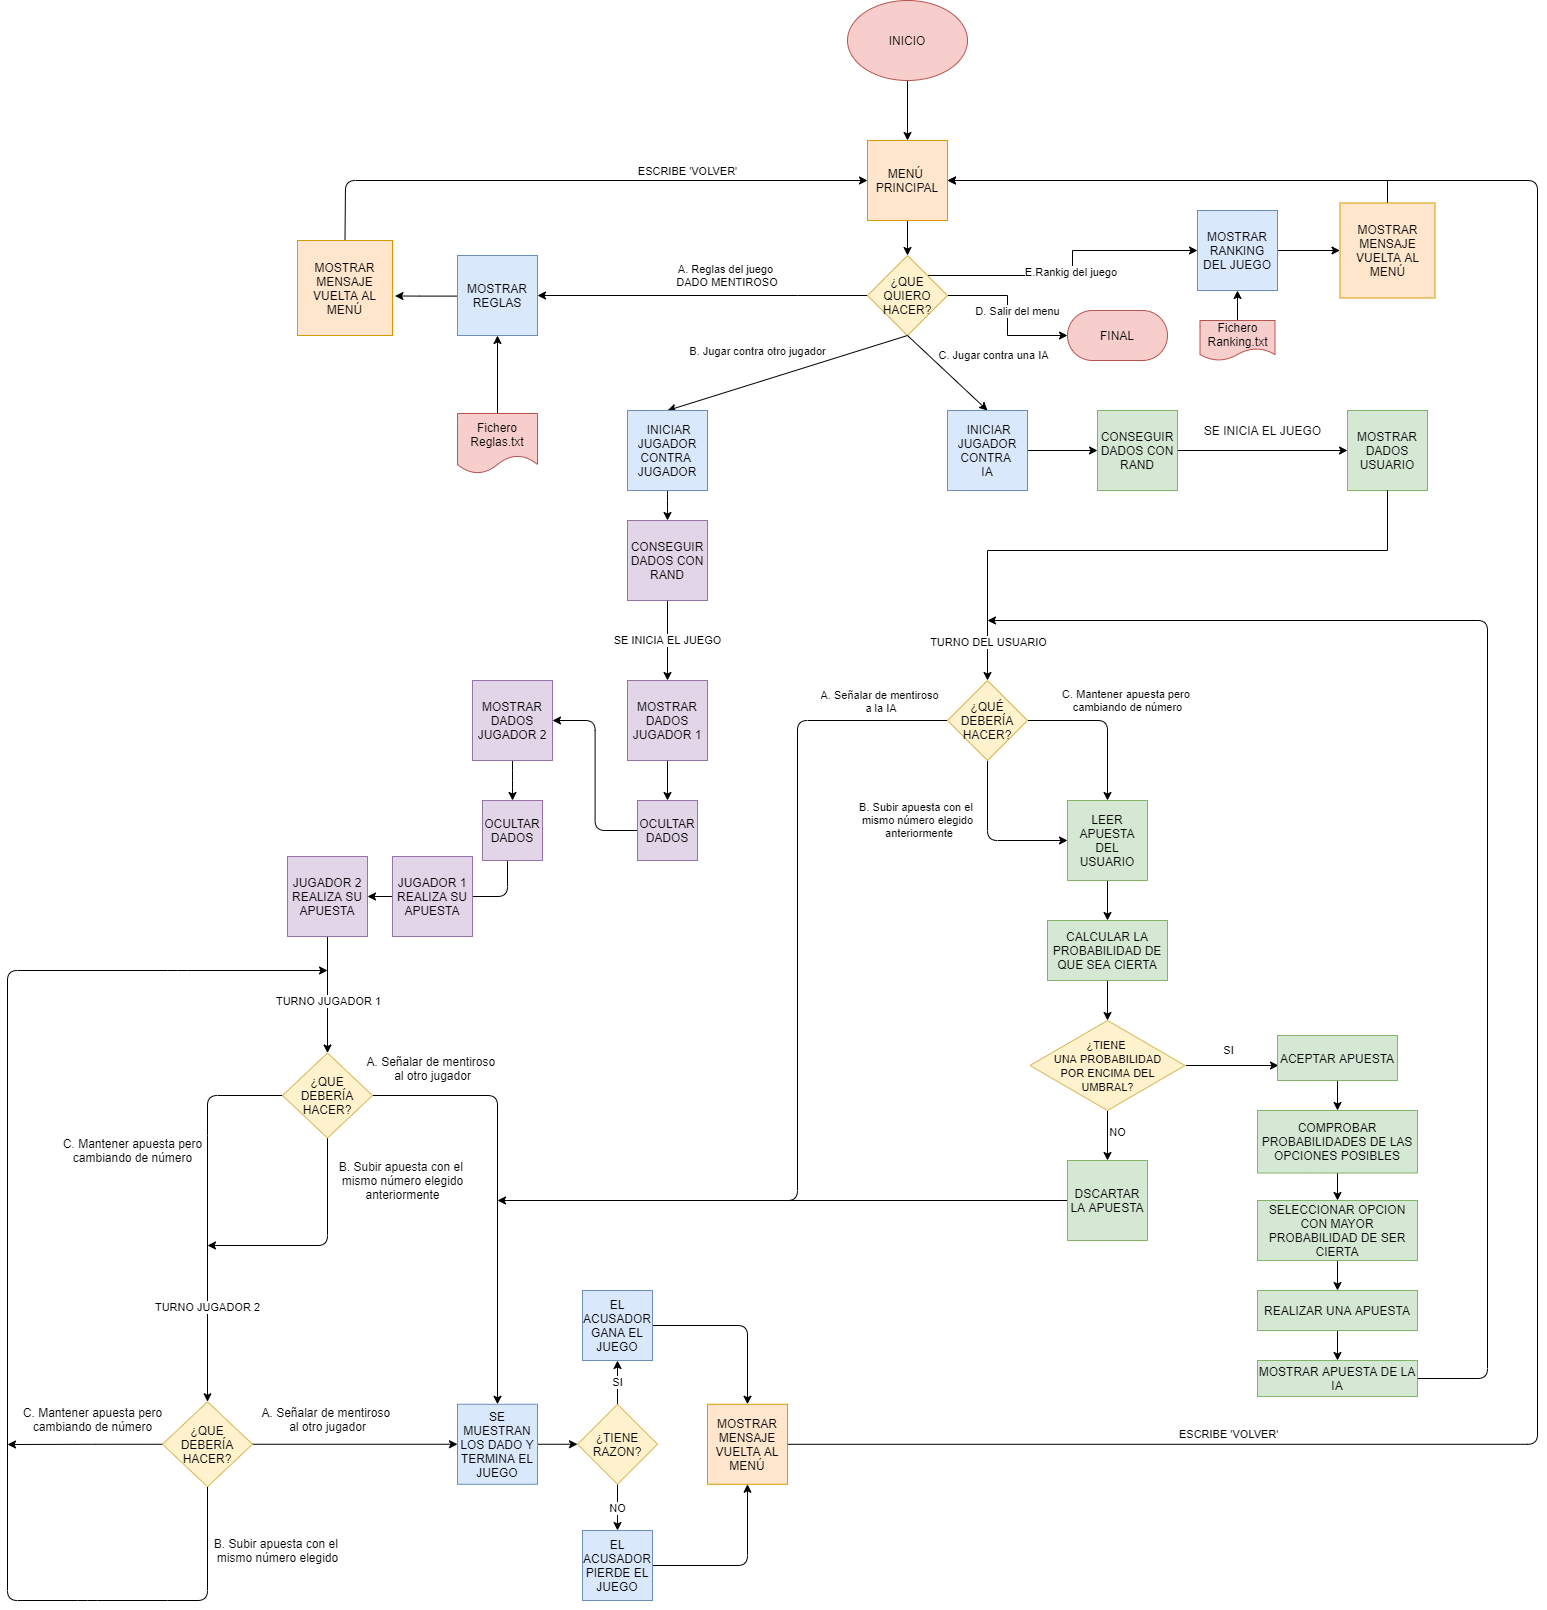
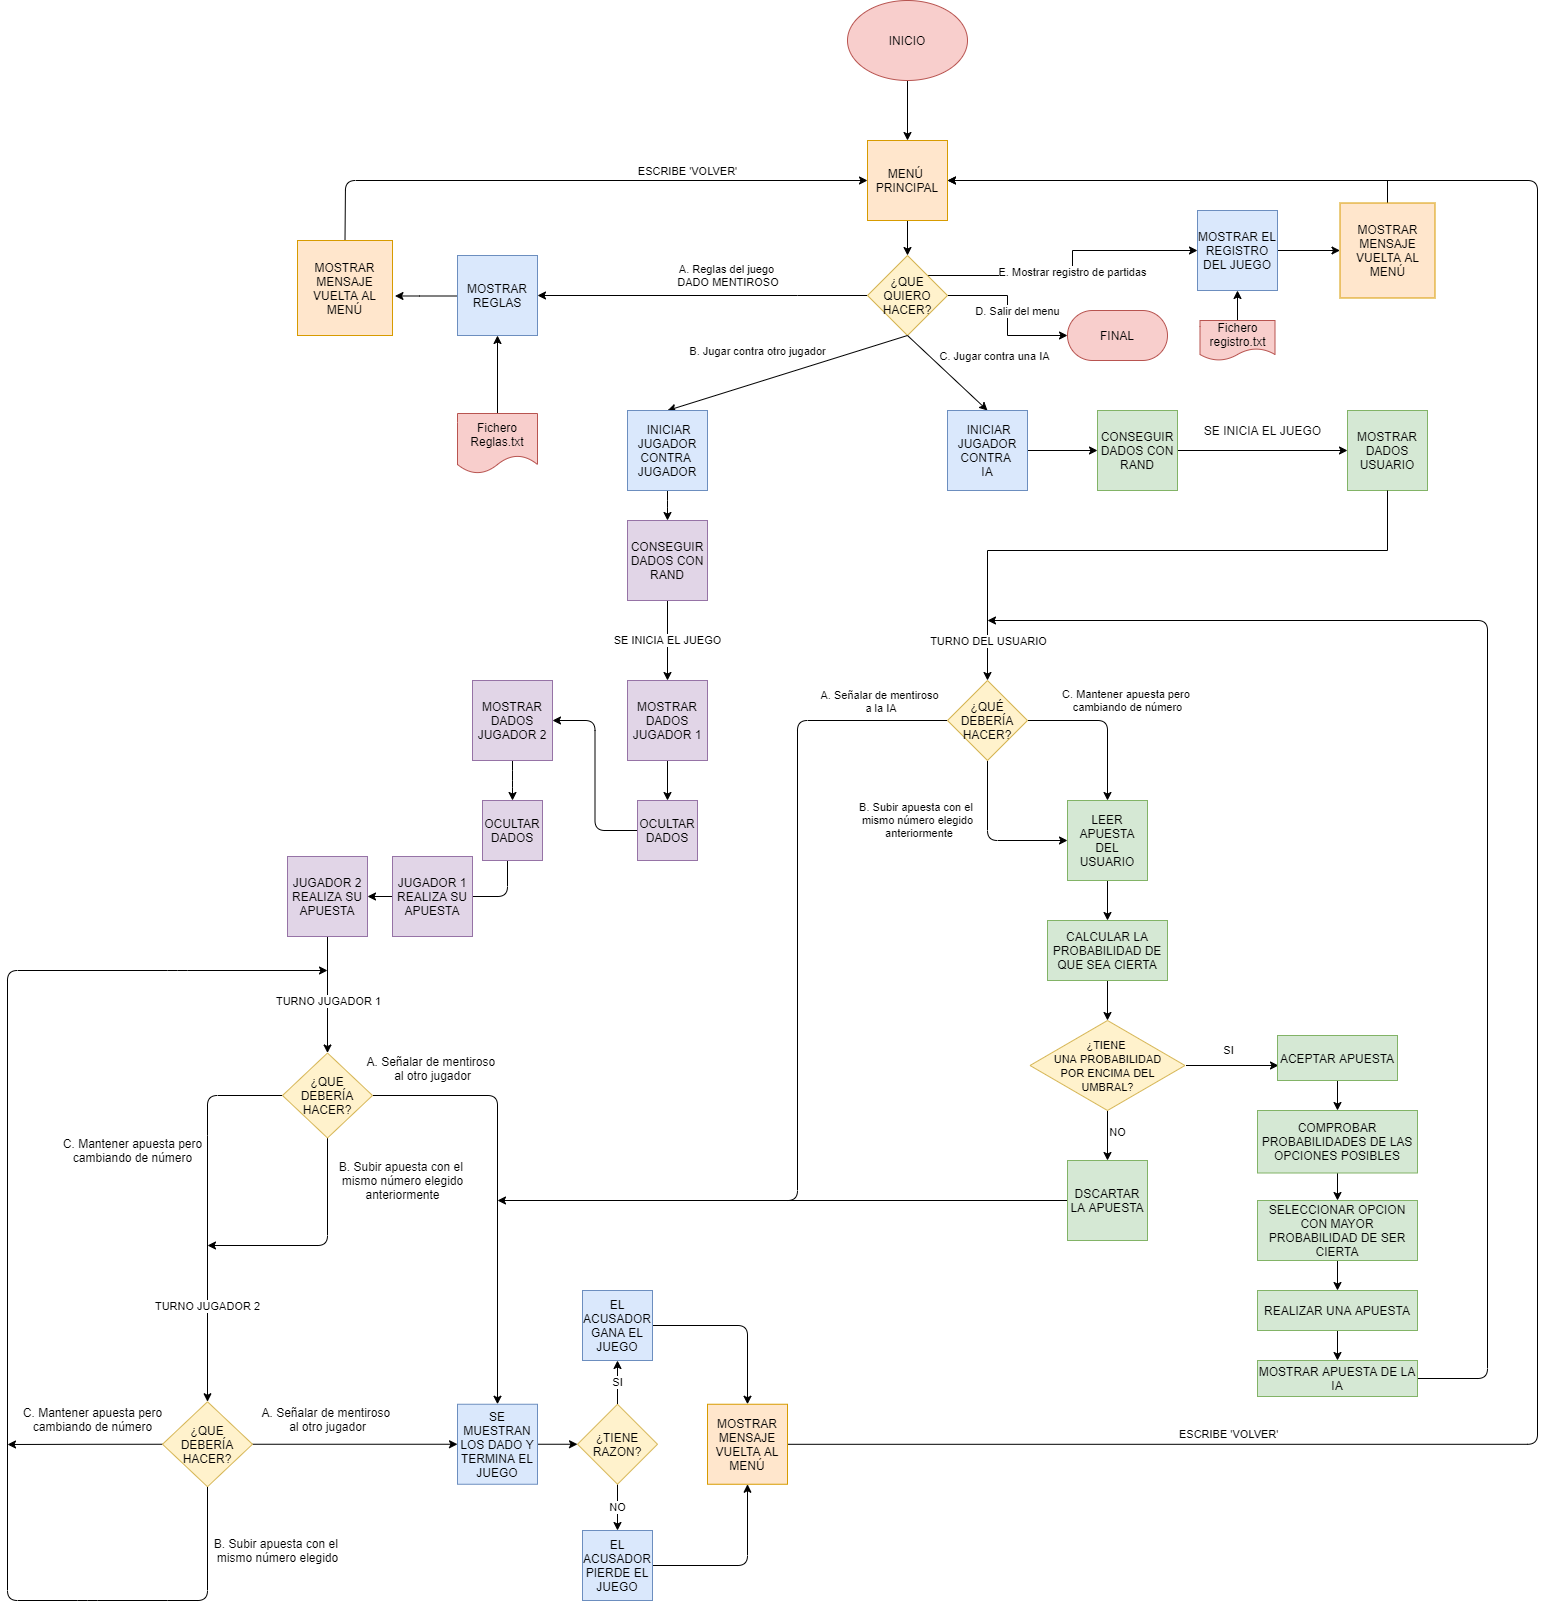
Actualizado el diagrama de flujo y el menú para ir acorde con el registro

diff --git a/0- CÓDIGO PROYECTO/1- MENU.c b/0- CÓDIGO PROYECTO/1- MENU.c
@@ -15,7 +15,7 @@ int main(int argc, char *argv[])
     {
         printf("\n\n  A continuacion se mostraran multiples opciones.\n  Elija la opcion que desee pulsando dicha tecla y posteriormente 'enter':\n");
         printf("\n");
-        printf("\tA --> Explicacion del juego DADO MENTIROSO.\n\n\tB --> Jugar contra otro jugador.\n\n\tC --> Jugar contra una IA.\n\n\tD --> Salir del menu.\n\n\tE --> Mostrar el ranking.\n\n\n\n");
+        printf("\tA --> Explicacion del juego DADO MENTIROSO.\n\n\tB --> Jugar contra otro jugador.\n\n\tC --> Jugar contra una IA.\n\n\tD --> Salir del menu.\n\n\tE --> Mostrar el registro del juego.\n\n\n\n");
         scanf(" %c",&opcion);
         printf("\n\n");
         FILE *archivo;
@@ -75,7 +75,7 @@ int main(int argc, char *argv[])
 
         case 'E':
        case 'e':
-        printf("\n********************| Estas son las puntuaciones de los jugadores |********************\n");
+        printf("\n********************|| Este es el registro de jugadores ||********************\n");
        fp = fopen("txt/registro.txt","r");
 
  	    while (feof(fp) == 0)
